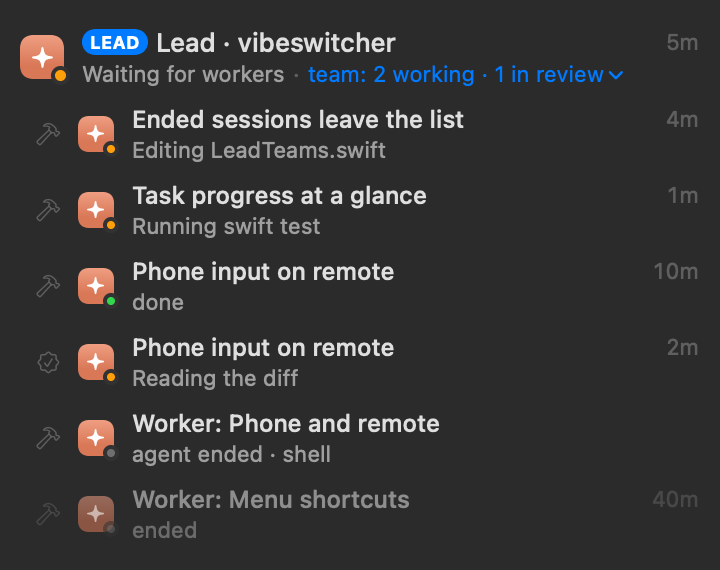
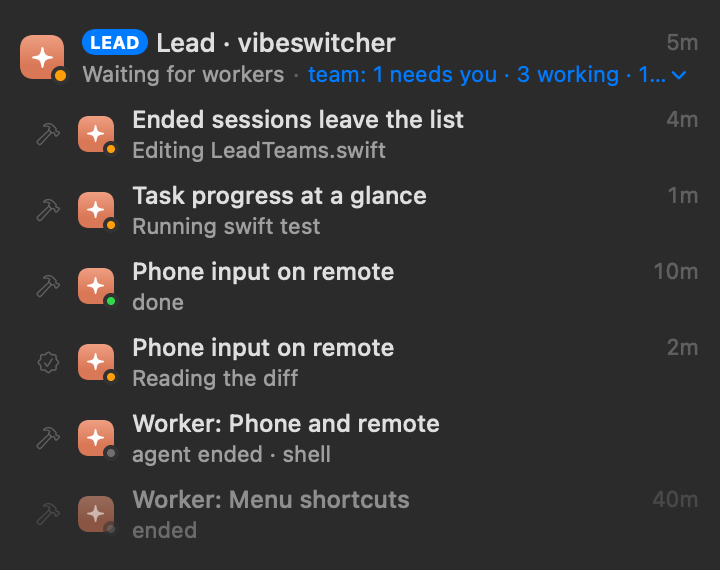
Offscreen renders of the Team view's lanes (running, rework, review, needs you, failed, merged, queued; light and dark, opened, the live ring with and without Reduce Motion) in docs/eval/ux-fixes, with the lead group's board-based summary redrawn; checkpoints read as one line; the README describes t

Changed region(s): [[0.5194, 0.1193, 0.9472, 0.1491]]

diff --git a/Tests/VibeSwitcherTests/LeadLaneSnapshots.swift b/Tests/VibeSwitcherTests/LeadLaneSnapshots.swift
@@ -1,0 +1,141 @@
+import AppKit
+import SwiftUI
+import Testing
+@testable import VibeCore
+@testable import VibeSwitcher
+
+/// Pictures of the lead's Team view, drawn offscreen from `LeadTeamView` and `LeadLanes`: a task in each state
+/// (running, rework, review, needs you, failed, merged, queued), the whole view, a row opened, and each lane alone.
+/// Only with `LANE_SNAPSHOT_DIR=/some/folder swift test --filter LeadLaneSnapshots`.
+@MainActor
+struct LeadLaneSnapshots {
+    static let folder = ProcessInfo.processInfo.environment["LANE_SNAPSHOT_DIR"]
+
+    struct Scenario {
+        var name: String
+        var task: LeadTask
+        var seen: [String: LaneSeen]
+    }
+
+    static func scenarios(now: Date) -> [Scenario] {
+        let at = now.timeIntervalSince1970
+        func task(_ title: String, _ status: LeadTask.Status, since: TimeInterval, created: TimeInterval) -> LeadTask {
+            var task = LeadTask(slug: Slug.make(title, taken: []), title: title,
+                                contract: LeadContract(goal: "What must be true when \(title.lowercased()) is done.",
+                                                       acceptance: ["swift build && swift test pass", "Offscreen renders light and dark"],
+                                                       boundaries: ["Sources/VibeSwitcher/MainWindow/Lead/*", "tests"], context: ""),
+                                status: status)
+            task.createdAt = at - created
+            task.since = at - since
+            task.worktree = "/Users/you/dev/vibeswitcher/.vibeswitcher/worktrees/\(task.slug)"
+            task.branch = "agent/\(task.slug)"
+            if status != .planned {
+                task.worker = UUID().uuidString
+                task.startedAt = task.createdAt + 60
+                task.attempts = 1
+            }
+            return task
+        }
+        func seen(_ task: LeadTask, working: Bool = true, live: Bool = true, needsYou: Bool = false, activity: String? = nil, detail: String? = nil) -> [String: LaneSeen] {
+            [task.worker ?? "": LaneSeen(live: live, needsYou: needsYou, working: working, activity: activity, detail: detail, since: now - 120)]
+        }
+
+        var running = task("Pipeline lanes in the Team view, with checkpoints and the live stage's activity", .running, since: 42 * 60, created: 5_000)
+        running.checkpoints = [LeadCheckpoint(text: "Board fields and the progress tool, with tests", at: at - 1_900),
+                               LeadCheckpoint(text: "Lane view model and its tests pass", at: at - 300)]
+
+        var rework = task("Phone input reaches remote sessions", .running, since: 12 * 60, created: 9_000)
+        rework.attempts = 3
+        rework.setback = LeadSetback(stage: .review, reason: "Audit: the new test is skipped on CI, so nothing checks the remote path.",
+                                     evidence: LeadEvidence(completion: .incomplete, integrity: .suspect, summary: "HostInputTests.remote is skipped (XCTSkip) on CI; the change is untested.", commit: "4f1c2a9e"),
+                                     at: at - 13 * 60)
+        rework.checkpoints = [LeadCheckpoint(text: "Remote path reproduced in a test", at: at - 2_400)]
+        rework.report = "Phone input now reaches remote sessions; HostInputTests pass."
+
+        var review = task("Ended sessions leave the list", .review, since: 4 * 60, created: 7_000)
+        review.verifier = UUID().uuidString
+        review.report = "Ended workers and verifiers of finished tasks are forgotten by the host; swift test passes."
+        review.checkpoints = [LeadCheckpoint(text: "Reported done", at: at - 250)]
+
+        let needsYou = task("Menu shortcuts follow the Mac conventions", .running, since: 25 * 60, created: 6_000)
+
+        var failed = task("Hang watchdog restarts a stuck host", .failed, since: 3 * 60, created: 8_000)
+        failed.setback = LeadSetback(stage: .merge, reason: "Tests fail rebased onto main: HangWatchdogTests.restartsAfterTimeout", at: at - 180)
+        failed.evidence = LeadEvidence(completion: .complete, integrity: .clean, summary: "All checks pass on the branch.", commit: "9b7e0d13")
+
+        var merged = task("Trust prompt is answered for new worktrees", .done, since: 50 * 60, created: 20_000)
+        merged.worktree = nil
+        merged.merged = LeadMergeRecord(commit: "c0ffee4213ab", tested: true, at: at - 50 * 60)
+        merged.evidence = LeadEvidence(completion: .complete, integrity: .clean, summary: "swift test passes; the trust prompt is answered once.", commit: "77aa01bc")
+        merged.checkpoints = [LeadCheckpoint(text: "Answered in a scratch worktree", at: at - 4_000)]
+
+        let queued = task("Start page shows recent projects", .planned, since: 30 * 60, created: 1_800)
+        let queuedNext = task("Composer undo keeps the draft", .planned, since: 20 * 60, created: 1_200)
+
+        var verifierSeen = seen(review)
+        verifierSeen[review.verifier ?? ""] = LaneSeen(live: true, needsYou: false, working: true, activity: "Reading the diff", detail: nil, since: now - 60)
+        return [
+            Scenario(name: "running", task: running, seen: seen(running, activity: "Running swift test")),
+            Scenario(name: "rework", task: rework, seen: seen(rework, activity: "Editing HostInputTests.swift")),
+            Scenario(name: "review", task: review, seen: verifierSeen),
+            Scenario(name: "needs-you", task: needsYou, seen: seen(needsYou, working: false, needsYou: true,
+                                                                  detail: "Asks: should ⌘K open the palette or clear the terminal?")),
+            Scenario(name: "failed", task: failed, seen: seen(failed, working: false, live: false)),
+            Scenario(name: "merged", task: merged, seen: [:]),
+            Scenario(name: "queued", task: queued, seen: [:]),
+            Scenario(name: "queued-next", task: queuedNext, seen: [:]),
+        ]
+    }
+
+    func write<V: View>(_ view: V, width: CGFloat, name: String, folder: String) throws {
+        for scheme in [ColorScheme.light, .dark] {
+            let framed = view
+                .frame(width: width, alignment: .topLeading)
+                .background(scheme == .dark ? Color(white: 0.16) : Color(white: 0.97))
+                .environment(\.colorScheme, scheme)
+            let renderer = ImageRenderer(content: framed)
+            renderer.scale = 2
+            let image = try #require(renderer.nsImage)
+            let tiff = try #require(image.tiffRepresentation)
+            let data = try #require(NSBitmapImageRep(data: tiff)?.representation(using: .png, properties: [:]))
+            try data.write(to: URL(fileURLWithPath: folder).appendingPathComponent("\(name)-\(scheme == .dark ? "dark" : "light").png"))
+        }
+    }
+
+    @Test(.enabled(if: folder != nil)) func drawTeamLanes() throws {
+        let folder = try #require(Self.folder)
+        let scenarios = Self.scenarios(now: Date())
+        var board = LeadBoard()
+        board.tasks = scenarios.map(\.task)
+        let seen = scenarios.reduce(into: [String: LaneSeen]()) { $0.merge($1.seen) { a, _ in a } }
+        let width: CGFloat = 360
+
+        // The tab as it opens (finished folded), then with the rework row and the finished ones open.
+        try write(LaneList(board: board, seen: seen, open: { _ in }).padding(14), width: width, name: "team-lanes", folder: folder)
+        let rework = try #require(scenarios.first { $0.name == "rework" }?.task.id)
+        let merged = try #require(scenarios.first { $0.name == "merged" }?.task.id)
+        try write(LaneList(board: board, seen: seen, open: { _ in }, openRows: [rework, merged], showFinished: true).padding(14),
+                  width: width, name: "team-lanes-expanded", folder: folder)
+
+        // Each state alone.
+        for scenario in scenarios where scenario.name != "queued-next" {
+            var one = LeadBoard()
+            one.tasks = [scenario.task]
+            try write(LaneList(board: one, seen: scenario.seen, open: { _ in }, showFinished: true).padding(10), width: width,
+                      name: "lane-\(scenario.name)", folder: folder)
+        }
+
+        // The live ring: pulsing (its first frame), and still with Reduce Motion.
+        let rings = HStack(spacing: 24) {
+            ForEach([LeadLanes.LiveRing.pulsing, .still], id: \.self) { ring in
+                VStack(spacing: 6) {
+                    LaneNode(node: .live, tint: .orange, ring: ring).frame(width: 24, height: 24)
+                    Text(ring == .pulsing ? "Pulsing" : "Reduce Motion").font(.system(size: 10)).foregroundStyle(.secondary)
+                }
+            }
+        }
+        try write(rings.padding(12), width: 200, name: "lane-live-ring", folder: folder)
+    }
+}
+
+extension LeadLanes.LiveRing: Hashable {}

diff --git a/Sources/VibeSwitcher/MainWindow/Lead/LeadLaneViews.swift b/Sources/VibeSwitcher/MainWindow/Lead/LeadLaneViews.swift
@@ -138,11 +138,10 @@ struct LaneRow: View {
         VStack(alignment: .leading, spacing: 3) {
             Text(lane.task.title).font(.system(size: 12.5, weight: .medium)).fixedSize(horizontal: false, vertical: true)
             if let checkpoint = lane.checkpoint {
-                HStack(alignment: .firstTextBaseline, spacing: 4) {
-                    Image(systemName: "flag.fill").font(.system(size: 8)).foregroundStyle(.tertiary)
-                    Text(checkpoint.text).foregroundStyle(.secondary).lineLimit(2)
-                    Text(Durations.compact(now.timeIntervalSince1970 - checkpoint.at)).foregroundStyle(.tertiary).monospacedDigit()
-                }
+                (Text(Image(systemName: "flag.fill")).font(.system(size: 8)).foregroundColor(.secondary) + Text(" ")
+                    + Text(checkpoint.text).foregroundColor(.secondary)
+                    + Text(" · " + Durations.compact(now.timeIntervalSince1970 - checkpoint.at)).foregroundColor(Color.secondary.opacity(0.6)))
+                    .lineLimit(2).fixedSize(horizontal: false, vertical: true)
             }
             if let activity = lane.activity {
                 Text(activity).foregroundStyle(.secondary).lineLimit(1).truncationMode(.middle)
@@ -212,14 +211,34 @@ struct LaneDetails: View {
                         .font(.system(size: 11.5)).foregroundStyle(merged.tested ? .green : .orange)
                 }
             }
+            if task.worker.map(canOpen) == true || task.verifier.map(canOpen) == true {
+                HStack(spacing: 8) {
+                    if let worker = task.worker, canOpen(worker) { openButton("Open worker") { open(worker) } }
+                    if let verifier = task.verifier, canOpen(verifier) { openButton("Open verifier") { open(verifier) } }
+                }
+                .fixedSize()
+            }
             HStack(spacing: 8) {
-                if let worker = task.worker, canOpen(worker) { Button("Open worker") { open(worker) }.controlSize(.small) }
-                if let verifier = task.verifier, canOpen(verifier) { Button("Open verifier") { open(verifier) }.controlSize(.small) }
-                if let branch = task.branch { Text(branch).font(.system(size: 10.5, design: .monospaced)).foregroundStyle(.tertiary) }
-                if task.rework > 0 { Text("\(task.rework) rework round\(task.rework == 1 ? "" : "s")").font(.system(size: 10.5)).foregroundStyle(.tertiary) }
+                if let branch = task.branch {
+                    Text(branch).font(.system(size: 10.5, design: .monospaced)).foregroundStyle(.tertiary).lineLimit(1).truncationMode(.middle)
+                }
+                if task.rework > 0 {
+                    Text("\(task.rework) rework round\(task.rework == 1 ? "" : "s")").font(.system(size: 10.5)).foregroundStyle(.tertiary).fixedSize()
+                }
             }
         }
         .padding(.leading, 2)
+    }
+
+    private func openButton(_ title: String, action: @escaping () -> Void) -> some View {
+        Button(action: action) {
+            Label(title, systemImage: "arrow.up.forward.app").font(.system(size: 11, weight: .medium))
+                .padding(.horizontal, 8).padding(.vertical, 3)
+                .background(Capsule().fill(Color.accentColor.opacity(0.14)))
+                .contentShape(Capsule())
+        }
+        .buttonStyle(.plain)
+        .foregroundStyle(Color.accentColor)
     }
 
     private func part<Content: View>(_ title: String, @ViewBuilder _ content: () -> Content) -> some View {

diff --git a/docs/eval/ux-fixes/team-lanes.md b/docs/eval/ux-fixes/team-lanes.md
@@ -1,0 +1,39 @@
+# The lead's Team view as pipeline lanes
+
+Light | Dark
+--- | ---
+![Team lanes](team-lanes-light.png) | ![Team lanes](team-lanes-dark.png)
+
+Opened (a reworked task and a merged one): `team-lanes-expanded-*.png`. Each state alone: `lane-running-*`,
+`lane-rework-*`, `lane-review-*`, `lane-needs-you-*`, `lane-failed-*`, `lane-merged-*`, `lane-queued-*`. The live ring,
+pulsing and with Reduce Motion: `lane-live-ring-*`. The lead row's team summary now comes from the board:
+`lead-group-after-*`.
+
+**How they were made.** Offscreen, with SwiftUI's `ImageRenderer`, from the Team tab's own `LaneList` and
+`LeadLanes`, not from a screen capture. The pulsing ring is drawn at its first frame. Drawn 360 pt wide (the inspector
+is about that wide).
+
+Regenerate: `LANE_SNAPSHOT_DIR=$PWD/docs/eval/ux-fixes swift test --filter LeadLaneSnapshots`.
+
+What it shows:
+
+- **One row per task, the whole title.** It wraps and is never cut. Under it: the worker's latest checkpoint (from
+  its `progress` tool) with its age, what the session at the live stage is doing now, and in red why it failed or
+  what it waits on. While the task is reworked, the same line shows in orange why it last failed.
+- **The lane: Plan → Work → Review → Merge.** A done stage is filled green, the live stage has a ring around a dot
+  (pulsing; with Reduce Motion a still halo), a stage not reached yet is hollow, and a red node marks a failure or
+  a session waiting on you. Click Work to open the worker, or Review to open the verifier.
+- **The state in words, and how long it's been there.** For example `Work 42m`, `Rework 2 · Work 12m`, `Review 4m`,
+  `Merge 3m` (audit passed), `Needs you 2m`, `Failed 3m`, `Blocked`, `Queued #1`, `Merged ✓`.
+- **What's happening now, not the last verdict.** A failed task whose worker is working again is in Work, with its
+  rework round and the last failure's reason under it. It turns red only with no worker at work. The board counts
+  the rounds (`attempts`): messaging the live worker of a failed task, or starting a new one on it, starts a round.
+- **Order.** Needs you, live, in review, queued (in the order they'll start), then a folded `Merged (n)`.
+- **Opened**, a row shows the contract, the checkpoints with their times, the worker's report, the audit (or the
+  last failed one), and the merge commit with whether the test command ran.
+- **VoiceOver** reads a lane as one line: "Pipeline lanes in the Team view: Work, 42 minutes, Lane view model and its
+  tests pass". Actions open the worker or the verifier.
+- **The sidebar (WL-1, WL-4).** The lead row's "team: 1 needs you · 2 working · 1 in review · 3 queued" counts the
+  board's tasks, so a worker that hasn't begun isn't idle. A window session that has started but whose agent hasn't
+  shown up yet reads "Starting…". The team folding leaves out ended workers and verifiers of finished tasks at
+  once, before the host has forgotten them.

diff --git a/README.md b/README.md
@@ -79,7 +79,10 @@ workers and verifiers fold under their lead in the list, and the lead's chat sho
 It only asks you what's really yours to decide; its questions show as cards you answer without stopping it (the
 answer reaches it at its next step), and you can message it any time the same way. VibeSwitcher is its witness:
 it tells the lead when a worker waits for input, stops without reporting, or dies. The Team tab in the inspector
-has each task's contract and verdict, your answers, the results, and the lead's files. All of it lives in the
+shows each task as a pipeline lane, Plan → Work → Review → Merge: where it is now and for how long, the worker's
+latest checkpoint (workers note milestones with a `progress` tool) or what the live stage is doing, and why it failed
+or waits on you; click Work or Review to open the worker or the verifier, or the row for its contract, checkpoints,
+report, audit and merge. It also has your answers, the results, and the lead's files. All of it lives in the
 repository, git-ignored: `.vibeswitcher/board.json` (tasks, questions, updates), `workflow.md` (limits, test and
 setup commands, the verifier's model, the lead's branch), `decisions.md` and `progress.md`. The lead sets up
 `workflow.md` itself with its `configure` tool, which changes only those settings' lines and keeps your comments
